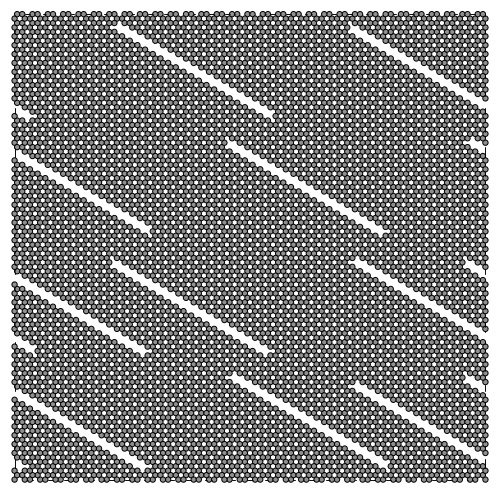
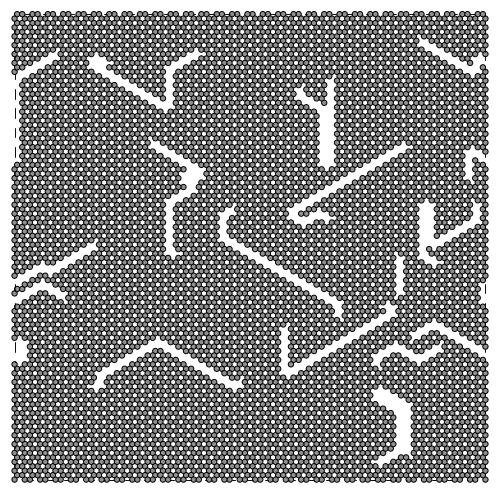
fixed bug of sum(p) = 0

diff --git a/graphene_sheet/RN_walks.py b/graphene_sheet/RN_walks.py
@@ -43,7 +43,7 @@ class RW_Generator:
         self.avoid_unvalid = avoid_unvalid
         self.grid_start = grid_start
         self.center_elem = center_elem
-        self.avoid_clustering = avoid_clustering
+        self.initial_avoid_clustering = avoid_clustering
         self.centering = centering # Move CM as close to starting point as possible
         self.stay_or_break = stay_or_break
         if seed is not None: # Not working properly... XXX
@@ -52,26 +52,13 @@ class RW_Generator:
         # Possible directions
         self.main_center = connected_neigh_center_elem((0,0))[1] # 6 main directions based on the center elements
         
+        # Get equivalent atom direction when following center direction
         main_atom_even = connected_neigh_atom((0,0))[1]
         main_atom_odd = connected_neigh_atom((1,0))[1]
         
-        idx = (2,2)
-        test = connected_neigh_atom(idx)[1]
-        
-        odd_even = (idx[0]+idx[1])%2 # even = 0, odd = 1
-        
-        # print(self.main_center)
-        # print(self.main_atom_even)
-        # print(self.main_atom_odd)
-        # exit()
-        
-        # self.center_to_atom_even 
-        # self.center_to_atom_odd 
-        
-        # Equilivasnt atom direction when following center direction
-        
-        
-        self.center_to_atom_even = []
+        # Distinguish between odd or even positions
+        # (idx[0]+idx[1])%2 => 0: even, 1: odd
+        self.center_to_atom_even = [] 
         self.center_to_atom_odd = []
         for i, main in enumerate(self.main_center):
             best_even_idx = np.argmin(np.linalg.norm(main - main_atom_even, axis = 1))
@@ -107,6 +94,8 @@ class RW_Generator:
         if self.periodic:
             assert np.all(self.size%2 == 0), f"The size of the sheet {self.size} must have even side lengths to enable periodic boundaries."
     
+        self.avoid_clustering = self.initial_avoid_clustering
+
     
         # Ideas for further features
         # TODO: Single walk copied to multiple locations
@@ -225,8 +214,8 @@ class RW_Generator:
             detect = all_visited or not_vertically_spanning
                         
             if detect: # Isolated cluster detected
-                self.avoid_clustering -= 1
                 print(f'Isolated cluster detected | {self.avoid_clustering} attempts left')
+                self.avoid_clustering -= 1
                 if self.avoid_clustering > 0:
                     self.generate()
                 else:
@@ -357,8 +346,11 @@ class RW_Generator:
                                 p[mask] = 0 # Already ruled this out
                                 p[~mask] /= np.sum(p[~mask])
                               
-                                # if len(p) == 0:
-                                
+                              
+                                if np.sum(p) == 0: # No where to go
+                                    break
+                                    
+                                p /= np.sum(p) # Normalize again for safety measures
                                 choice = np.random.choice(len(neigh), p = p)
                                 self.last_direction = direction[choice]
                                  

diff --git a/config_builder/build_config.py b/config_builder/build_config.py
@@ -467,10 +467,22 @@ def RW_dataset(shape = (62,106)):
     
     
     # --- Stay or break --- #
+    # Thin
+    param = {**param, 'min_dis': 3, 'bias': [(0, 0), 0], 'RN6': True, 'grid_start': False, 'center_elem': False, 'avoid_unvalid': True,  'centering': False}
+    SET += [RW_Generator(**{**param, 'num_walks': 15, 'max_steps': 40, 'stay_or_break': 0.85})] * 2
+    SET += [RW_Generator(**{**param, 'num_walks': 15, 'max_steps': 40, 'stay_or_break': 0.9})] * 2
+    SET += [RW_Generator(**{**param, 'num_walks': 15, 'max_steps': 40, 'stay_or_break': 0.95})] * 2
+    SET += [RW_Generator(**{**param, 'num_walks': 25, 'max_steps': 40, 'stay_or_break': 0.85})] * 2
+    SET += [RW_Generator(**{**param, 'num_walks': 25, 'max_steps': 40, 'stay_or_break': 0.9})] * 2
+    SET += [RW_Generator(**{**param, 'num_walks': 25, 'max_steps': 40, 'stay_or_break': 0.95})] * 2
+    
+    
+    
+    # Thick
     param = {**param, 'min_dis': 3, 'bias': [(0, 0), 0], 'RN6': True, 'grid_start': False, 'center_elem': 'full', 'avoid_unvalid': True,  'centering': False}
-    SET += [RW_Generator(**{**param, 'num_walks': 15, 'max_steps': 20, 'stay_or_break': 0.7})] * 5
-    SET += [RW_Generator(**{**param, 'num_walks': 15, 'max_steps': 20, 'stay_or_break': 0.8})] * 5
-    SET += [RW_Generator(**{**param, 'num_walks': 10, 'max_steps': 20, 'stay_or_break': 0.9})] * 5
+    SET += [RW_Generator(**{**param, 'num_walks': 15, 'max_steps': 20, 'stay_or_break': 0.7})] * 4
+    SET += [RW_Generator(**{**param, 'num_walks': 15, 'max_steps': 20, 'stay_or_break': 0.8})] * 4
+    SET += [RW_Generator(**{**param, 'num_walks': 10, 'max_steps': 20, 'stay_or_break': 0.9})] * 4
 
     
     # --- More traditional RW --- #
@@ -585,15 +597,15 @@ if __name__ == "__main__":
     # pass
     
     
-    # RW_dataset()
+    RW_dataset()
 
     
     
     
-    RW = RW_Generator(size = (62, 106), stay_or_break = 0.95, num_walks = 1,  max_steps = 50, min_dis = 3, bias = [(0, 1), 0], RN6 = False, periodic = True, avoid_unvalid = True, grid_start = True, center_elem = False,  centering = False, avoid_clustering = 0)
-    mat = RW.generate()
-    builder = config_builder(mat)
-    builder.view()
+    # RW = RW_Generator(size = (62, 106), stay_or_break = 0.95, num_walks = 1,  max_steps = 50, min_dis = 3, bias = [(0, 1), 0], RN6 = False, periodic = True, avoid_unvalid = True, grid_start = True, center_elem = False,  centering = False, avoid_clustering = 0)
+    # mat = RW.generate()
+    # builder = config_builder(mat)
+    # builder.view()
     
     # builder = config_builder(RW.visit)
     # builder.view()
